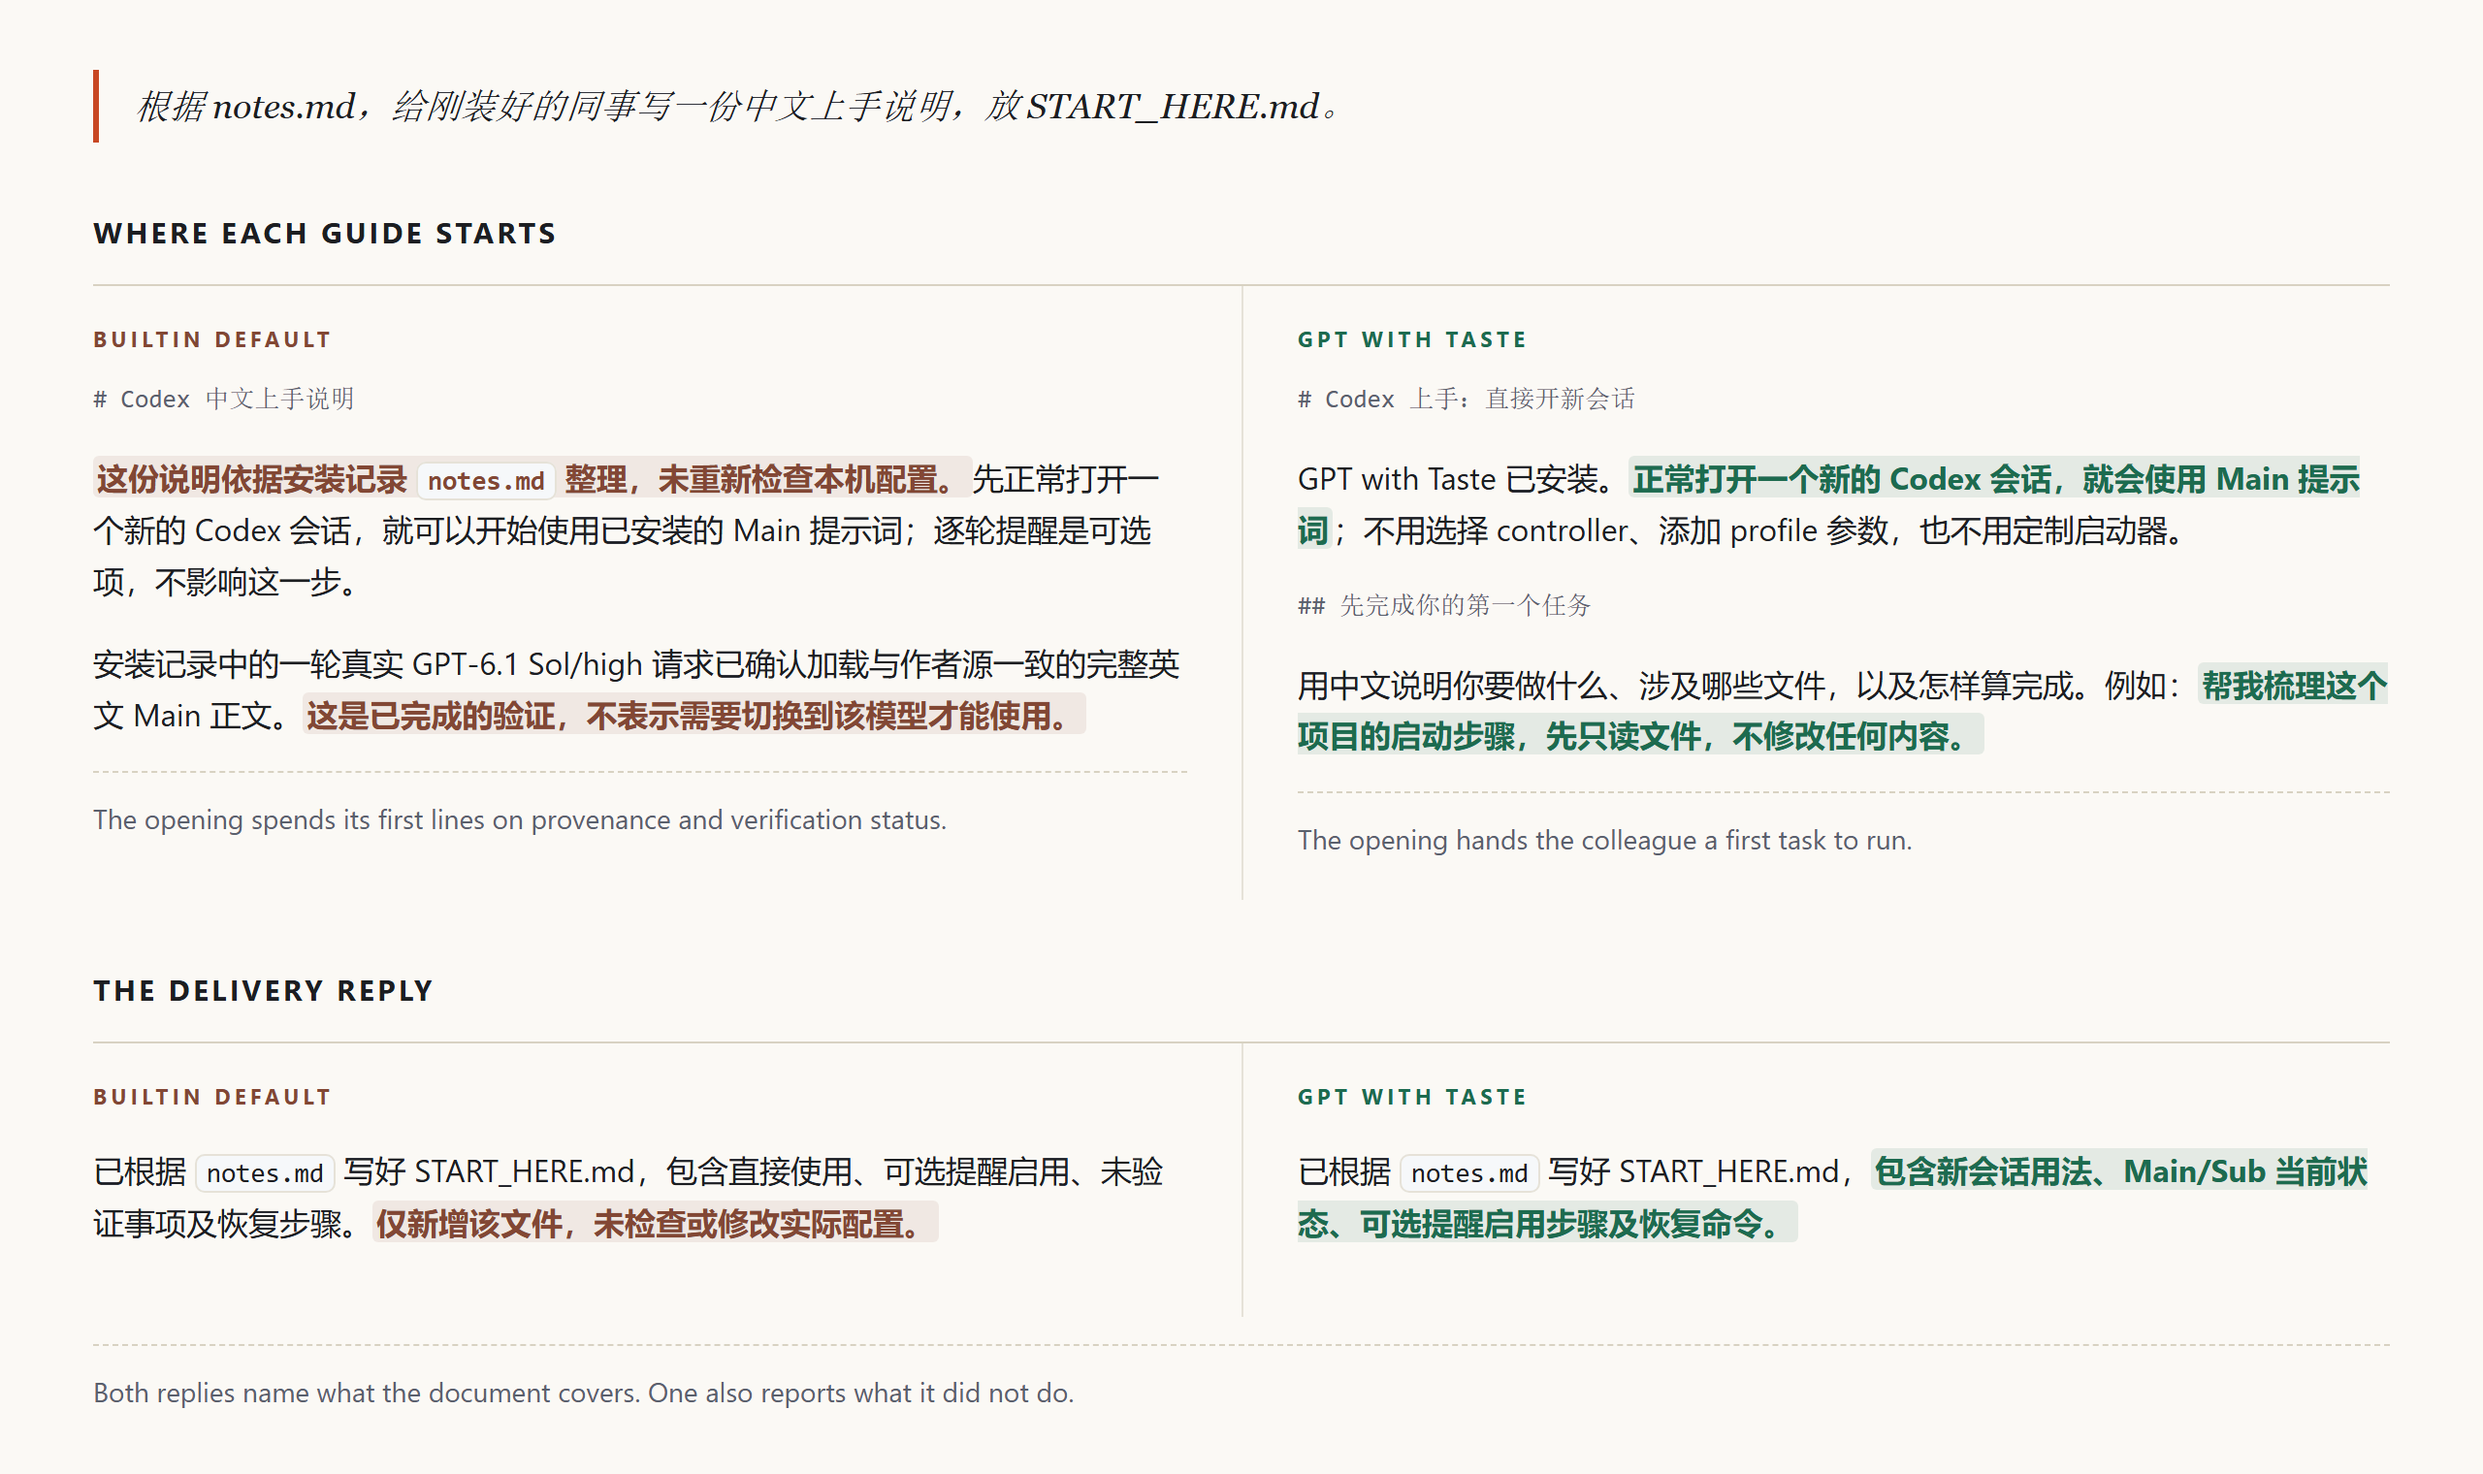
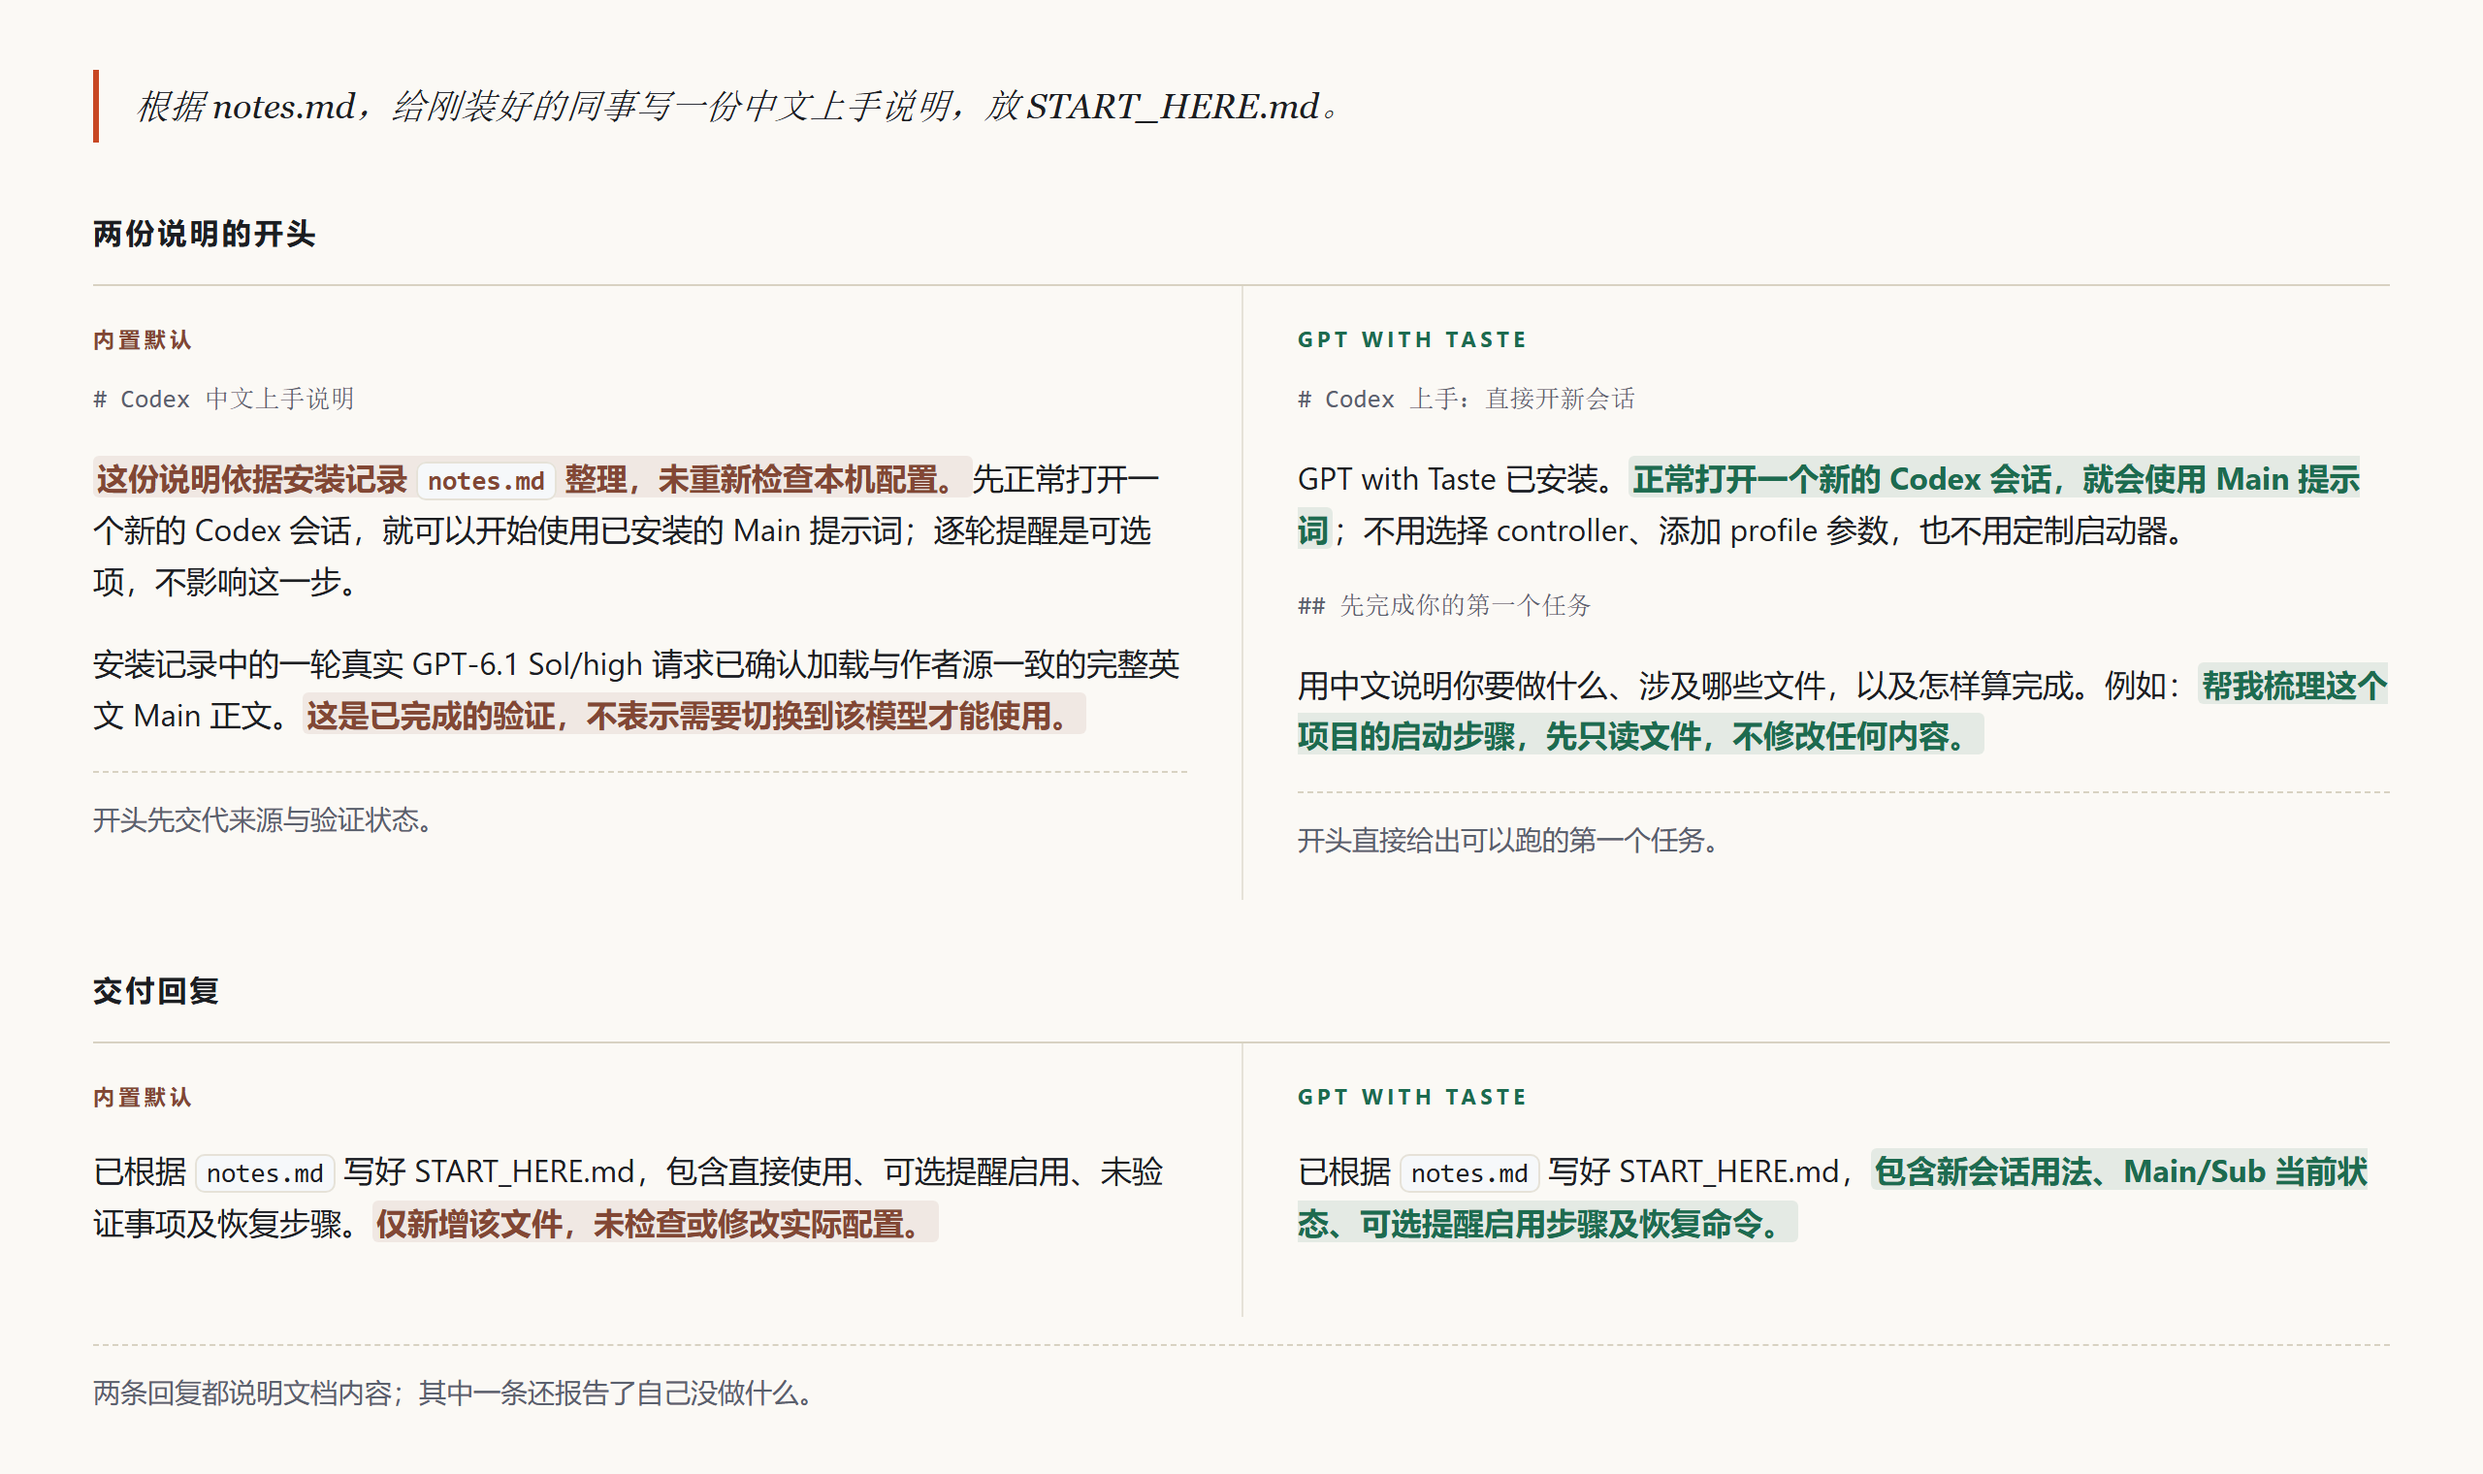
docs: localize README comparison cards in English and Chinese

diff --git a/assets/case-first-use-en.html b/assets/case-first-use-en.html
@@ -1,0 +1,69 @@
+<!DOCTYPE html>
+<html lang="en">
+<head>
+<meta charset="utf-8">
+<style>
+  :root {
+    --bg: #FBF9F5; --ink: #1C1E21; --muted: #5A606D; --accent: #C84824;
+    --caution: #824734; --positive: #1D6B4F;
+    --border: #E6E2D8; --border-strong: #D8D2C2; --code-bg: #F6F8FA;
+    --hl-c-bg: rgba(130, 71, 52, 0.09); --hl-t-bg: rgba(29, 107, 79, 0.10);
+  }
+  * { box-sizing: border-box; }
+  body { margin: 0; background: var(--bg); color: var(--ink); font-family: -apple-system, BlinkMacSystemFont, "Segoe UI", Roboto, "PingFang SC", "Microsoft YaHei", sans-serif; font-size: 16px; line-height: 1.65; }
+  code { font-family: ui-monospace, SFMono-Regular, Consolas, monospace; font-size: .86em; background: var(--code-bg); border: 1px solid var(--border); padding: 1px 5px; border-radius: 5px; }
+  blockquote.request { margin: 0; padding: 4px 0 4px 18px; border-left: 3px solid var(--accent); font-family: Georgia, "Times New Roman", serif; font-style: italic; font-size: 18px; }
+  h2 { font-size: 15px; font-weight: 700; letter-spacing: 1.6px; text-transform: uppercase; margin: 0 0 14px; }
+  section { margin-top: 34px; }
+  .cols { display: grid; grid-template-columns: 1fr 1fr; border-top: 1px solid var(--border-strong); }
+  .col { padding: 18px 28px 20px 0; min-width: 0; }
+  .col + .col { border-left: 1px solid var(--border); padding-left: 28px; padding-right: 0; }
+  .lane { display: block; font-size: 11px; font-weight: 700; letter-spacing: 2.2px; margin-bottom: 12px; }
+  .lane.b { color: var(--caution); } .lane.t { color: var(--positive); }
+  .hl-c { background: var(--hl-c-bg); color: var(--caution); font-weight: 700; border-radius: 3px; padding: 0 2px; }
+  .hl-t { background: var(--hl-t-bg); color: var(--positive); font-weight: 700; border-radius: 3px; padding: 0 2px; }
+  .doc-head { font-family: ui-monospace, SFMono-Regular, Consolas, monospace; font-size: 13px; color: var(--muted); margin: 0 0 10px; }
+  .note { margin: 14px 0 0; padding-top: 12px; border-top: 1px dashed var(--border-strong); color: var(--muted); font-size: 14px; }
+  .card { background: var(--bg); padding: 36px 48px 14px; }
+</style>
+</head>
+<body>
+<div class="card">
+  <blockquote class="request">Based on notes.md, write a Chinese onboarding guide for a colleague who has just finished installing, and save it as START_HERE.md.</blockquote>
+  <section>
+    <h2>Where each guide starts</h2>
+    <div class="cols">
+      <article class="col">
+        <span class="lane b">BUILTIN DEFAULT</span>
+        <p class="doc-head"># Codex Chinese onboarding guide</p>
+        <p><span class="hl-c">This guide was compiled from the installation log <code>notes.md</code>; the local configuration was not re-checked.</span> Open a new Codex session as usual and you can start using the installed Main prompt; per-turn reminders are optional and do not affect this step.</p>
+        <p>One real GPT-6.1 Sol/high request in the installation log confirmed that the complete English Main text, identical to the author's source, is loaded. <span class="hl-c">That verification is already done — it does not mean you need to switch to that model.</span></p>
+        <p class="note">The opening spends its first lines on provenance and verification status.</p>
+      </article>
+      <article class="col">
+        <span class="lane t">GPT WITH TASTE</span>
+        <p class="doc-head"># Codex onboarding: open a new session</p>
+        <p>GPT with Taste is installed. <span class="hl-t">Open a new Codex session as usual and the Main prompt is in effect</span> — no controller to pick, no profile flag to add, no custom launcher.</p>
+        <p class="doc-head">## Start with your first task</p>
+        <p>Say in Chinese what you want done, which files it touches, and what counts as finished. For example: <span class="hl-t">walk me through this project's startup steps — read the files only, change nothing.</span></p>
+        <p class="note">The opening hands the colleague a first task to run.</p>
+      </article>
+    </div>
+  </section>
+  <section>
+    <h2>The delivery reply</h2>
+    <div class="cols">
+      <article class="col">
+        <span class="lane b">BUILTIN DEFAULT</span>
+        <p>START_HERE.md is written from <code>notes.md</code>, covering direct usage, enabling the optional reminders, unverified items, and restore steps. <span class="hl-c">Only that file was added; the actual configuration was not checked or modified.</span></p>
+      </article>
+      <article class="col">
+        <span class="lane t">GPT WITH TASTE</span>
+        <p>START_HERE.md is written from <code>notes.md</code>, <span class="hl-t">covering new-session usage, the current Main/Sub status, steps to enable the optional reminders, and the restore commands.</span></p>
+      </article>
+    </div>
+    <p class="note">Both replies name what the document covers. One also reports what it did not do.</p>
+  </section>
+</div>
+</body>
+</html>

diff --git a/assets/case-first-use.html b/assets/case-first-use.html
@@ -1,0 +1,69 @@
+<!DOCTYPE html>
+<html lang="zh-CN">
+<head>
+<meta charset="utf-8">
+<style>
+  :root {
+    --bg: #FBF9F5; --ink: #1C1E21; --muted: #5A606D; --accent: #C84824;
+    --caution: #824734; --positive: #1D6B4F;
+    --border: #E6E2D8; --border-strong: #D8D2C2; --code-bg: #F6F8FA;
+    --hl-c-bg: rgba(130, 71, 52, 0.09); --hl-t-bg: rgba(29, 107, 79, 0.10);
+  }
+  * { box-sizing: border-box; }
+  body { margin: 0; background: var(--bg); color: var(--ink); font-family: -apple-system, BlinkMacSystemFont, "Segoe UI", Roboto, "PingFang SC", "Microsoft YaHei", sans-serif; font-size: 16px; line-height: 1.65; }
+  code { font-family: ui-monospace, SFMono-Regular, Consolas, monospace; font-size: .86em; background: var(--code-bg); border: 1px solid var(--border); padding: 1px 5px; border-radius: 5px; }
+  blockquote.request { margin: 0; padding: 4px 0 4px 18px; border-left: 3px solid var(--accent); font-family: Georgia, "Times New Roman", "Songti SC", "SimSun", serif; font-style: italic; font-size: 18px; }
+  h2 { font-size: 15px; font-weight: 700; letter-spacing: 1.6px; margin: 0 0 14px; }
+  section { margin-top: 34px; }
+  .cols { display: grid; grid-template-columns: 1fr 1fr; border-top: 1px solid var(--border-strong); }
+  .col { padding: 18px 28px 20px 0; min-width: 0; }
+  .col + .col { border-left: 1px solid var(--border); padding-left: 28px; padding-right: 0; }
+  .lane { display: block; font-size: 11px; font-weight: 700; letter-spacing: 2.2px; margin-bottom: 12px; }
+  .lane.b { color: var(--caution); } .lane.t { color: var(--positive); }
+  .hl-c { background: var(--hl-c-bg); color: var(--caution); font-weight: 700; border-radius: 3px; padding: 0 2px; }
+  .hl-t { background: var(--hl-t-bg); color: var(--positive); font-weight: 700; border-radius: 3px; padding: 0 2px; }
+  .doc-head { font-family: ui-monospace, SFMono-Regular, Consolas, monospace; font-size: 13px; color: var(--muted); margin: 0 0 10px; }
+  .note { margin: 14px 0 0; padding-top: 12px; border-top: 1px dashed var(--border-strong); color: var(--muted); font-size: 14px; }
+  .card { background: var(--bg); padding: 36px 48px 14px; }
+</style>
+</head>
+<body>
+<div class="card">
+  <blockquote class="request">根据 notes.md，给刚装好的同事写一份中文上手说明，放 START_HERE.md。</blockquote>
+  <section>
+    <h2>两份说明的开头</h2>
+    <div class="cols">
+      <article class="col">
+        <span class="lane b">内置默认</span>
+        <p class="doc-head"># Codex 中文上手说明</p>
+        <p><span class="hl-c">这份说明依据安装记录 <code>notes.md</code> 整理，未重新检查本机配置。</span>先正常打开一个新的 Codex 会话，就可以开始使用已安装的 Main 提示词；逐轮提醒是可选项，不影响这一步。</p>
+        <p>安装记录中的一轮真实 GPT-6.1 Sol/high 请求已确认加载与作者源一致的完整英文 Main 正文。<span class="hl-c">这是已完成的验证，不表示需要切换到该模型才能使用。</span></p>
+        <p class="note">开头先交代来源与验证状态。</p>
+      </article>
+      <article class="col">
+        <span class="lane t">GPT WITH TASTE</span>
+        <p class="doc-head"># Codex 上手：直接开新会话</p>
+        <p>GPT with Taste 已安装。<span class="hl-t">正常打开一个新的 Codex 会话，就会使用 Main 提示词</span>；不用选择 controller、添加 profile 参数，也不用定制启动器。</p>
+        <p class="doc-head">## 先完成你的第一个任务</p>
+        <p>用中文说明你要做什么、涉及哪些文件，以及怎样算完成。例如：<span class="hl-t">帮我梳理这个项目的启动步骤，先只读文件，不修改任何内容。</span></p>
+        <p class="note">开头直接给出可以跑的第一个任务。</p>
+      </article>
+    </div>
+  </section>
+  <section>
+    <h2>交付回复</h2>
+    <div class="cols">
+      <article class="col">
+        <span class="lane b">内置默认</span>
+        <p>已根据 <code>notes.md</code> 写好 START_HERE.md，包含直接使用、可选提醒启用、未验证事项及恢复步骤。<span class="hl-c">仅新增该文件，未检查或修改实际配置。</span></p>
+      </article>
+      <article class="col">
+        <span class="lane t">GPT WITH TASTE</span>
+        <p>已根据 <code>notes.md</code> 写好 START_HERE.md，<span class="hl-t">包含新会话用法、Main/Sub 当前状态、可选提醒启用步骤及恢复命令。</span></p>
+      </article>
+    </div>
+    <p class="note">两条回复都说明文档内容；其中一条还报告了自己没做什么。</p>
+  </section>
+</div>
+</body>
+</html>

diff --git a/README.md b/README.md
@@ -65,12 +65,11 @@ The recipe combines judgment, continuous execution, collaboration, and engineeri
 
 ## Comparison · From installation logs to a first task
 
-> **Task request**: 根据 notes.md，给刚装好的同事写一份中文上手说明，放 START_HERE.md。<br>
-> *(Both sessions received the exact same installation notes and Chinese request.)*
+> **Task request**: Use `notes.md` to write a Chinese getting-started guide for a colleague who has just finished installing. Save it as `START_HERE.md`.
 
 The visible improvement is straightforward: get the reader started first, while installation audits and process disclaimers step out of the way.
 
-[![Codex default vs. GPT with Taste: representative excerpts, with unnecessary self-justification highlighted](assets/case-first-use.png)](https://nb-corp.github.io/gpt-with-taste/)
+[![Codex default vs. GPT with Taste: representative excerpts, with unnecessary self-justification highlighted](assets/case-first-use-en.png)](https://nb-corp.github.io/gpt-with-taste/)
 
 Inspect full inputs, generated documents, and run conditions: [Task & run conditions](docs/cases/codex-first-use/input.md) · [Web comparison page](https://nb-corp.github.io/gpt-with-taste/) · [Case index](docs/cases.md).
 
